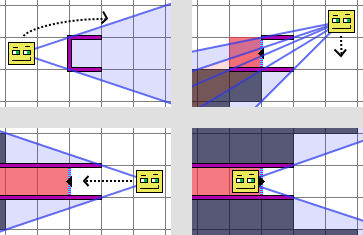
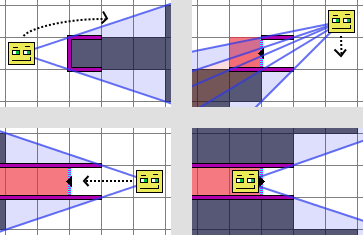
add test case for tunnel example, and fix example image

Changed region(s): [[0.1818, 0.0, 0.4848, 0.4468]]

diff --git a/test/test-field-of-view.ts b/test/test-field-of-view.ts
@@ -547,4 +547,73 @@ describe('field-of-view', () => {
 ...........
 `);
    });
+    it('gets the tunnel example right', () => {
+        const fovMap = new WarpField.FieldOfViewMap('A', 7, 5, true);
+        const fovMap1 = new WarpField.FieldOfViewMap('1', 7, 5, true);
+        fovMap.addWall(3, 2, WarpField.Direction.NORTH);
+        fovMap.addWall(2, 2, WarpField.Direction.EAST, true);
+        fovMap.addWall(3, 2, WarpField.Direction.SOUTH);
+        fovMap.addWarp(3, 2, WarpField.Direction.WEST, fovMap1, 2, 2);
+        fovMap1.addWarp(2, 2, WarpField.Direction.EAST, fovMap, 3, 2);
+        for (let x = 0; x <= 3; x ++) {
+            fovMap1.addWall(x, 2, WarpField.Direction.NORTH);
+            fovMap1.addWall(x, 2, WarpField.Direction.SOUTH);
+        }
+        const fov1 = fovMap.getFieldOfView(1, 2, 5);
+        assert.equal(fov1.toString(), `(-4,-3)
+...........
+...........
+...........
+....-------
+....------.
+....---....
+....------.
+....-------
+...........
+...........
+...........
+`);
+        const fov2 = fovMap.getFieldOfView(5, 1, 5);
+        assert.equal(fov2.toString(), `(0,-4)
+...........
+...........
+...........
+...........
+-------....
+-------....
+--1----....
+...----....
+..-----....
+...........
+...........
+`);
+        const fov3 = fovMap.getFieldOfView(5, 2, 5);
+        assert.equal(fov3.toString(), `(0,-3)
+...........
+...........
+...........
+-------....
+.------....
+111----....
+.------....
+-------....
+...........
+...........
+...........
+`);
+        const fov4 = fovMap1.getFieldOfView(2, 2, 5);
+        assert.equal(fov4.toString(), `(-3,-3)
+...........
+...........
+...........
+...........
+.......AAA.
+...---AAAA.
+.......AAA.
+...........
+...........
+...........
+...........
+`);
+   });
 });
